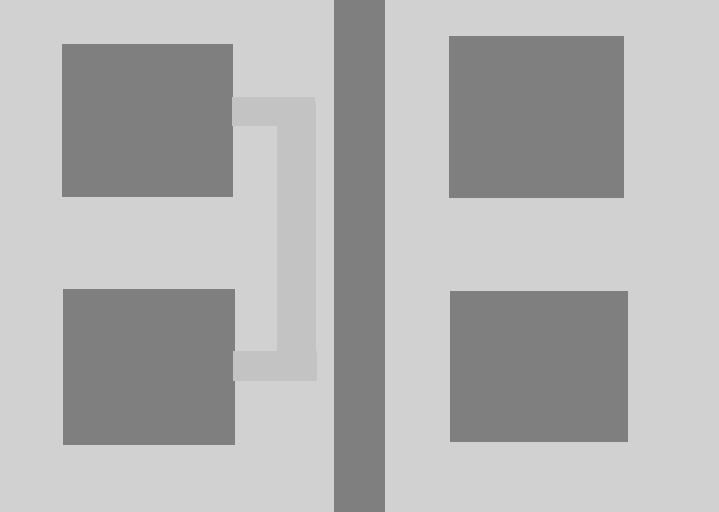
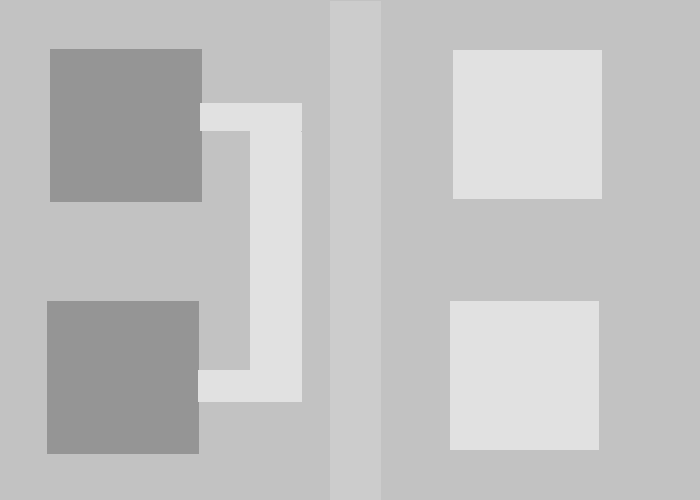
changed background picture, temperature indicator's font size

diff --git a/src/com/vlashel/vent/Main.java b/src/com/vlashel/vent/Main.java
@@ -20,21 +20,21 @@ public class Main extends Application {
     private void init(Stage primaryStage) {
         Group root = new Group();
         primaryStage.setResizable(false);
-        primaryStage.setScene(new Scene(root, 700, 500));
+        primaryStage.setScene(new Scene(root, 690, 490));
         root.getChildren().add(background);
 
         ClimateControlMediator mediator = new ClimateControlMediator();
 
         RoomClimateControl room1ClimateControl = new RoomClimateControl(
-                new Ventilator(460, 40),
-                new TemperatureSlider(10, 45),
-                new TemperatureIndicator(135, 15),
+                new Ventilator(450, 45),
+                new TemperatureSlider(10, 50),
+                new TemperatureIndicator(87, 60),
                 new ToggleSwitch(664, 50),
                 mediator, Position.UP);
         RoomClimateControl room2ClimateControl = new RoomClimateControl(
-                new Ventilator(460, 290),
-                new TemperatureSlider(10, 295),
-                new TemperatureIndicator(135, 260),
+                new Ventilator(450, 300),
+                new TemperatureSlider(10, 300),
+                new TemperatureIndicator(87, 315),
                 new ToggleSwitch(668,305),
                 mediator, Position.DOWN);
 

diff --git a/src/com/vlashel/vent/PathLine.java b/src/com/vlashel/vent/PathLine.java
@@ -40,8 +40,8 @@ public class PathLine extends Path {
     public void createHighPath(Color color) {
         this.setStroke(color);
         this.setStrokeWidth(5);
-        this.getElements().add(new MoveTo(240, 363));
-        this.getElements().add(new HLineTo(300));
+        this.getElements().add(new MoveTo(220, 363));
+        this.getElements().add(new HLineTo(280));
         this.getElements().add(new VLineTo(110));
         this.getElements().add(new HLineTo(240));
         this.getElements().add(new LineTo(245, 105));
@@ -53,7 +53,7 @@ public class PathLine extends Path {
     public void createLowPath(Color color) {
         this.setStroke(color);
         this.setStrokeWidth(5);
-        this.getElements().add(new MoveTo(240, 363));
+        this.getElements().add(new MoveTo(220, 363));
         this.getElements().add(new HLineTo(300));
         this.getElements().add(new VLineTo(110));
         this.getElements().add(new HLineTo(240));

diff --git a/src/com/vlashel/vent/TemperatureIndicator.java b/src/com/vlashel/vent/TemperatureIndicator.java
@@ -1,6 +1,7 @@
 package com.vlashel.vent;
 
 import javafx.scene.control.Label;
+import javafx.scene.text.Font;
 
 /**
  * @author vshel
@@ -12,5 +13,6 @@ public class TemperatureIndicator extends Label {
     public TemperatureIndicator(double translateX, double translateY) {
         this.setTranslateX(translateX);
         this.setTranslateY(translateY);
+        this.setFont(Font.font(70));
     }
 }
